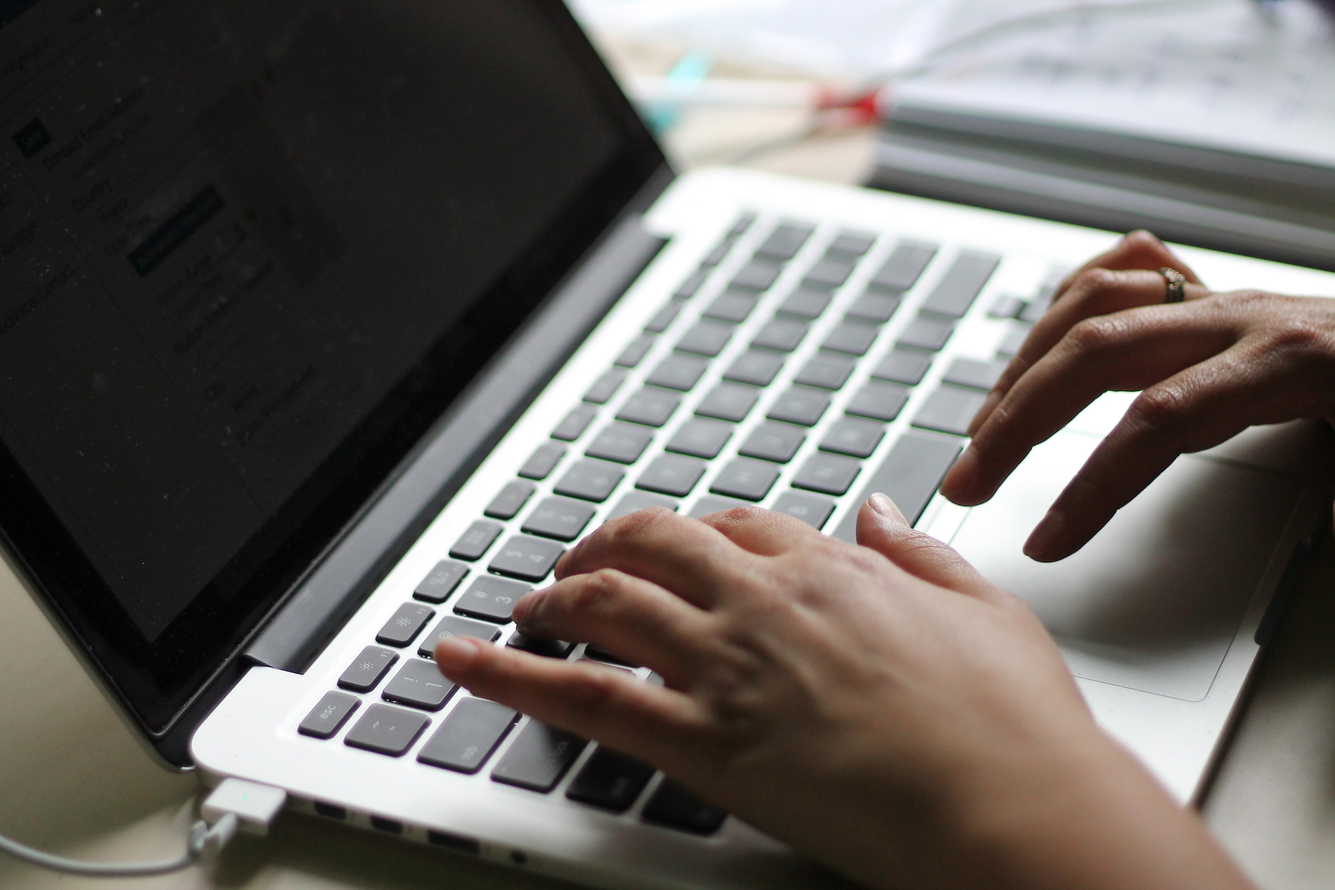
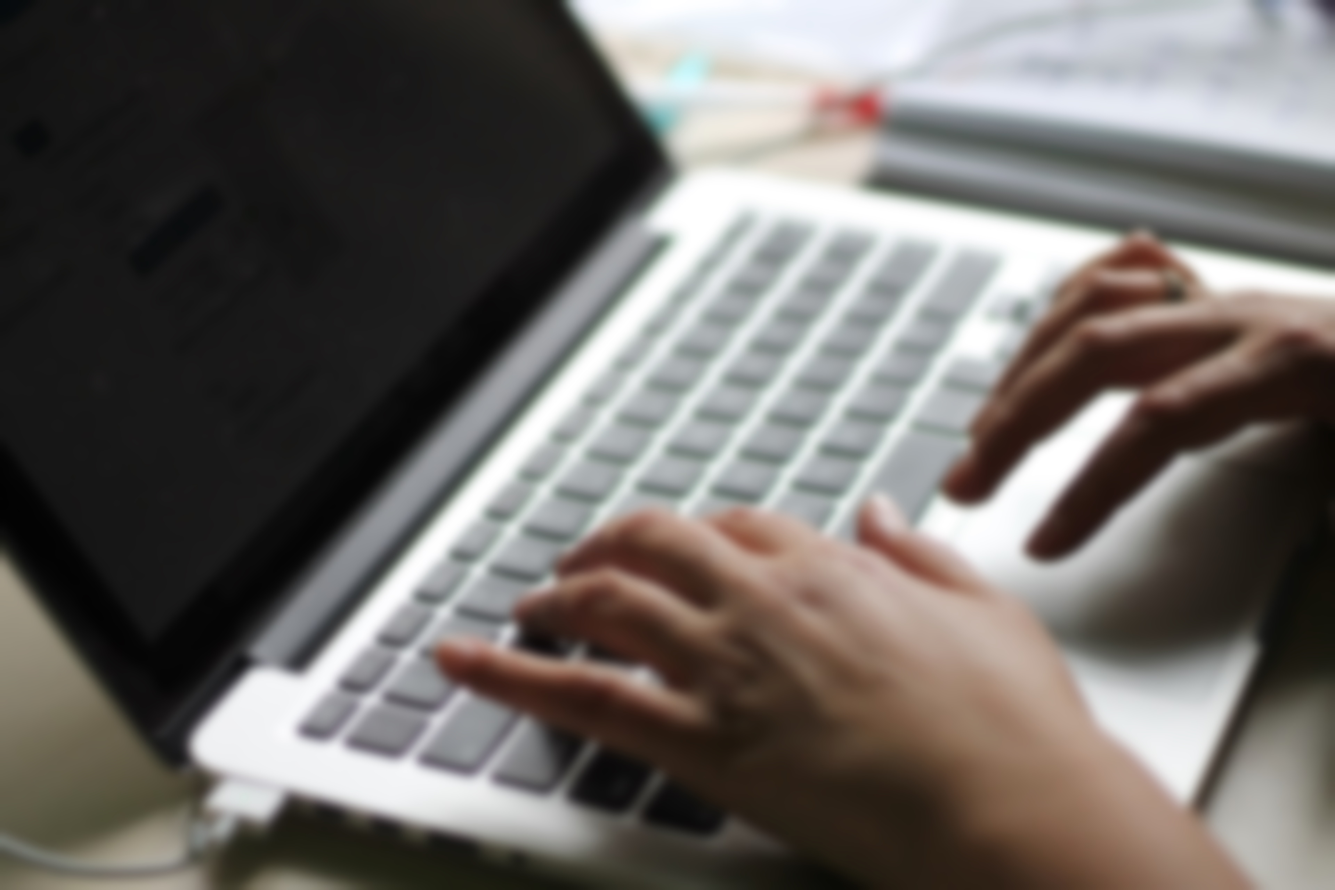
Added background and foundation for info cards

diff --git a/src/App.js b/src/App.js
@@ -1,8 +1,12 @@
-import React from "react";
 import "./App.css";
+import Card from "./components/Card";
 
 function App() {
-	return <div className="App" />;
+	return (
+		<div className="App">
+			<Card />
+		</div>
+	);
 }
 
 export default App;

diff --git a/src/components/Card.js b/src/components/Card.js
@@ -1,0 +1,11 @@
+import "./Card.css";
+
+const Card = () => {
+	return (
+		<div className="Card">
+			<h1 style={{ color: "white" }}>About me</h1>
+		</div>
+	);
+};
+
+export default Card;

diff --git a/src/components/Card.css b/src/components/Card.css
@@ -1,0 +1,9 @@
+.Card {
+	width: 50%;
+	height: 50%;
+	background-color: #101010;
+	display: inline-block;
+	margin-top: 4rem;
+	border-radius: 25px;
+	padding: 20px;
+}

diff --git a/src/App.css b/src/App.css
@@ -6,8 +6,4 @@
 	min-height: 100%;
 	background-size: cover;
 	background-position: center;
-
-	/* Adding blur */
-	filter: blur(4px);
-	-webkit-filter: blur(4px);
 }
